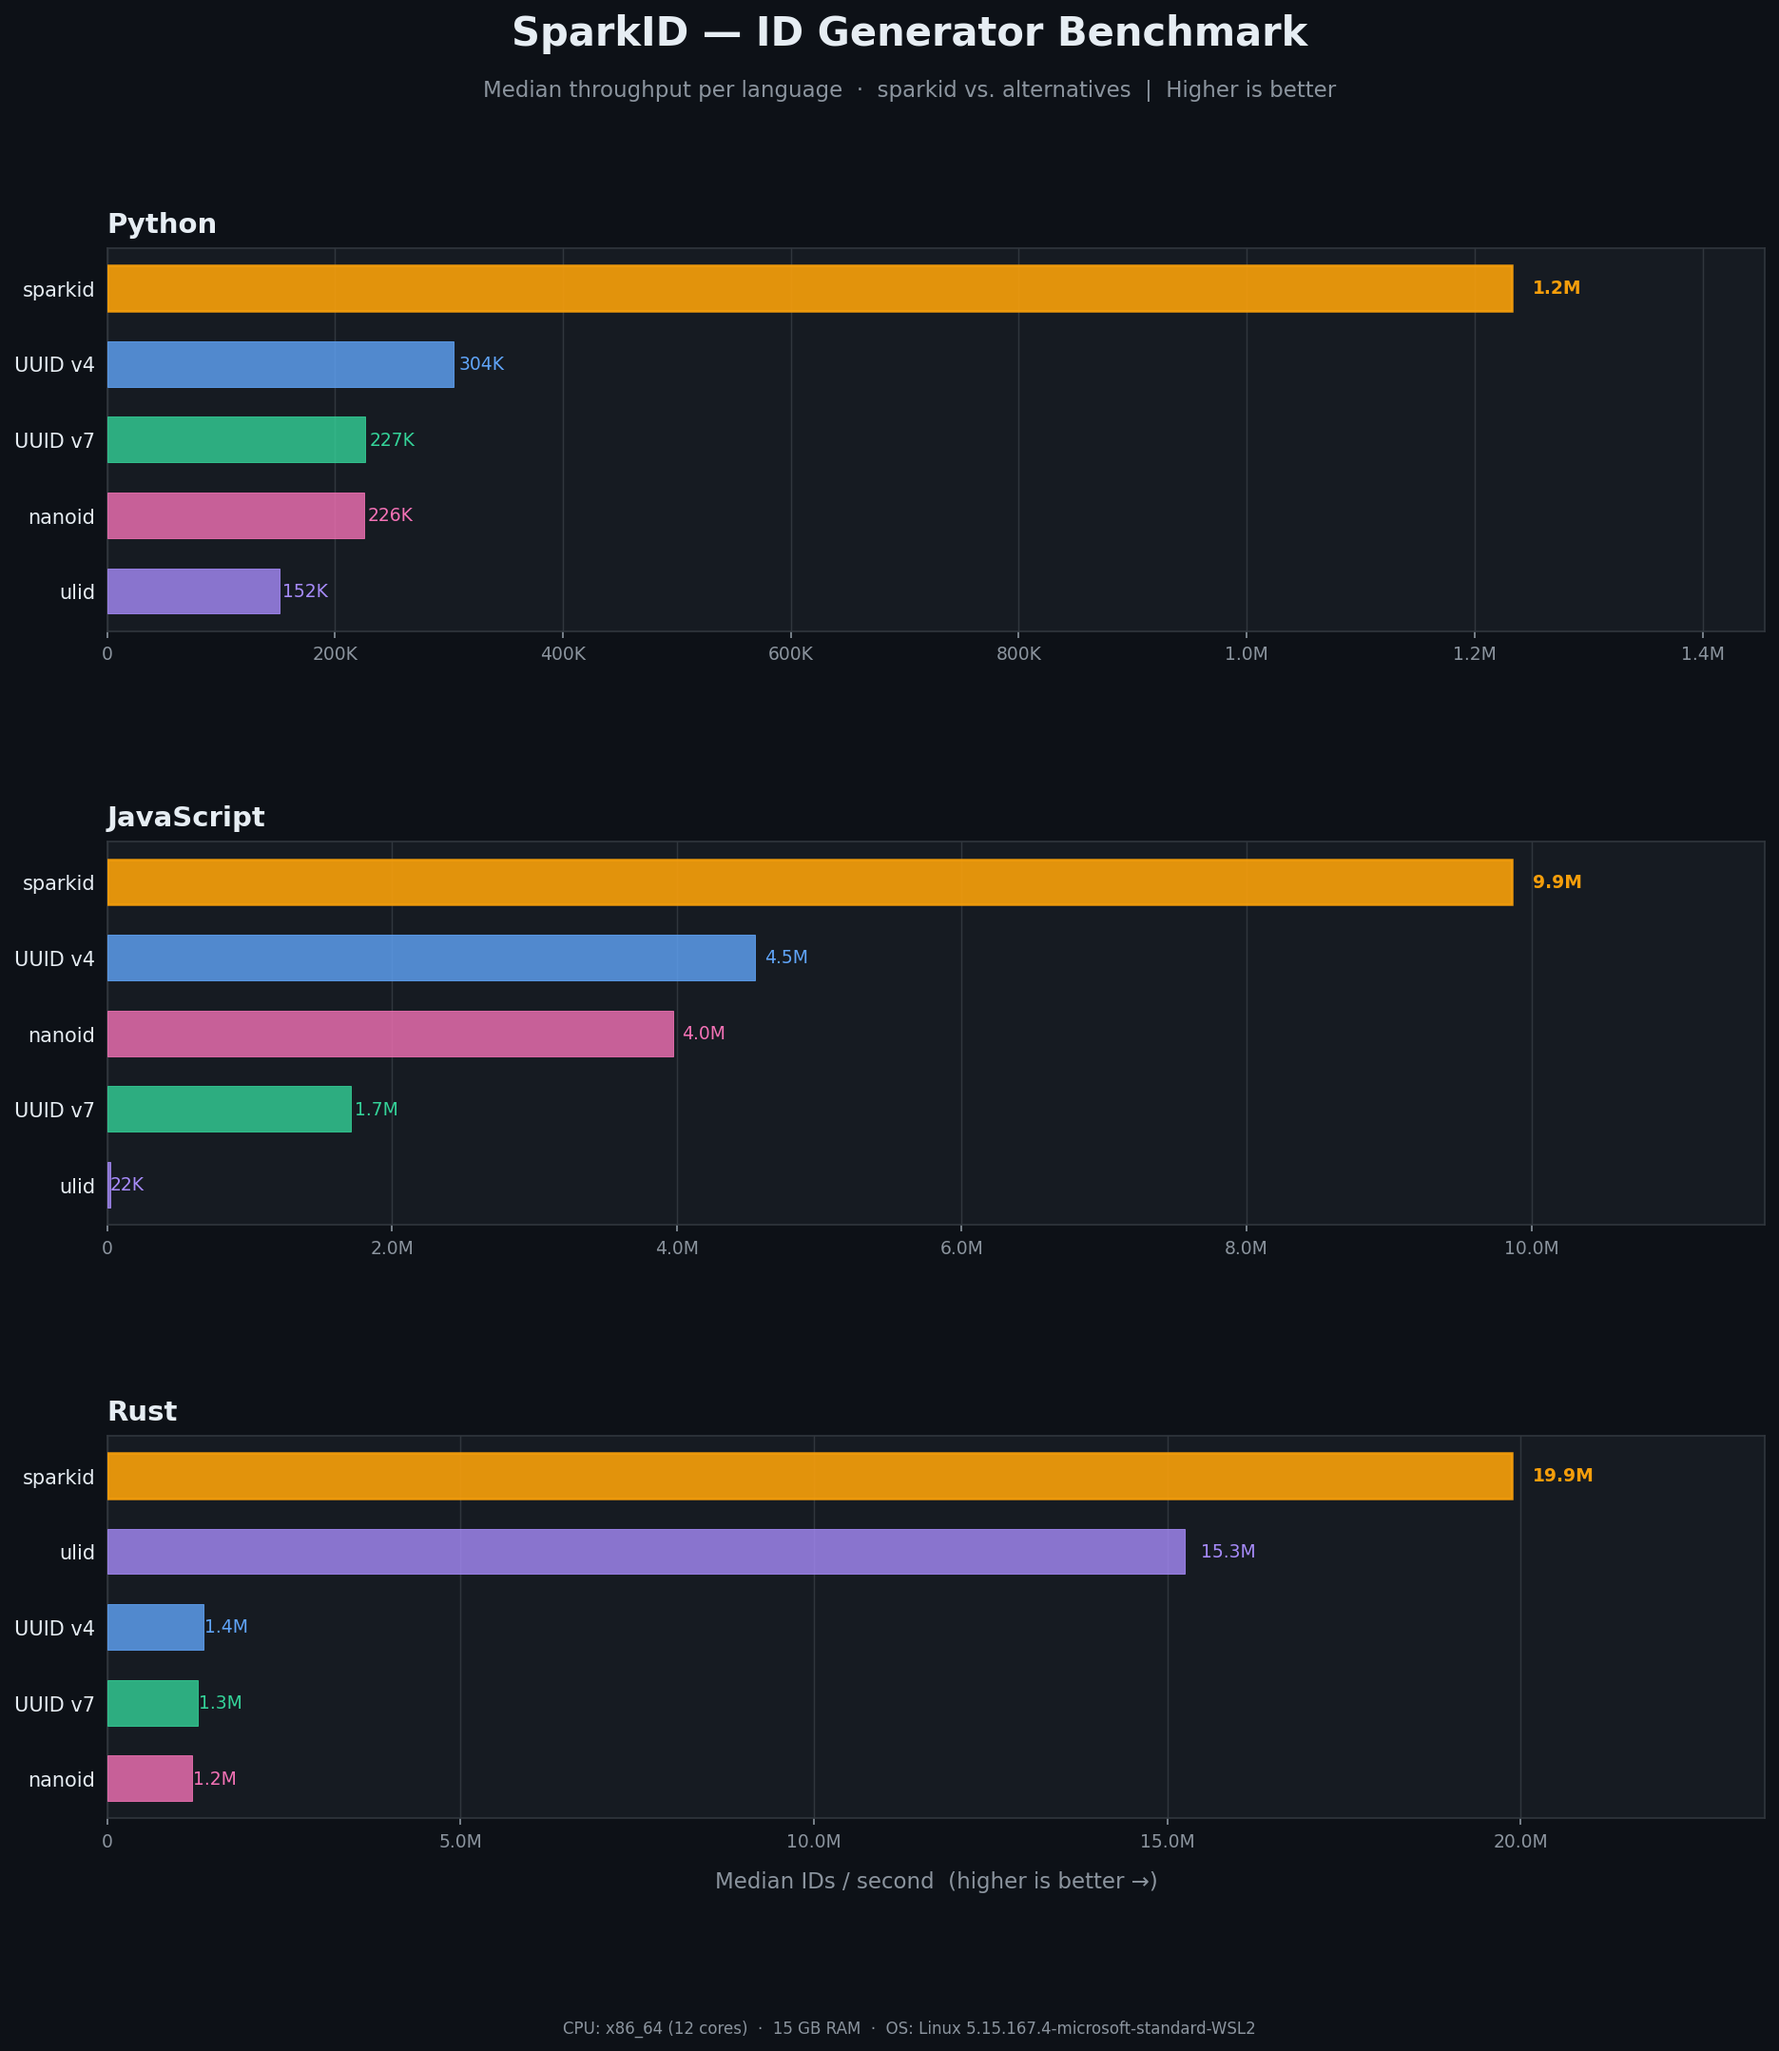
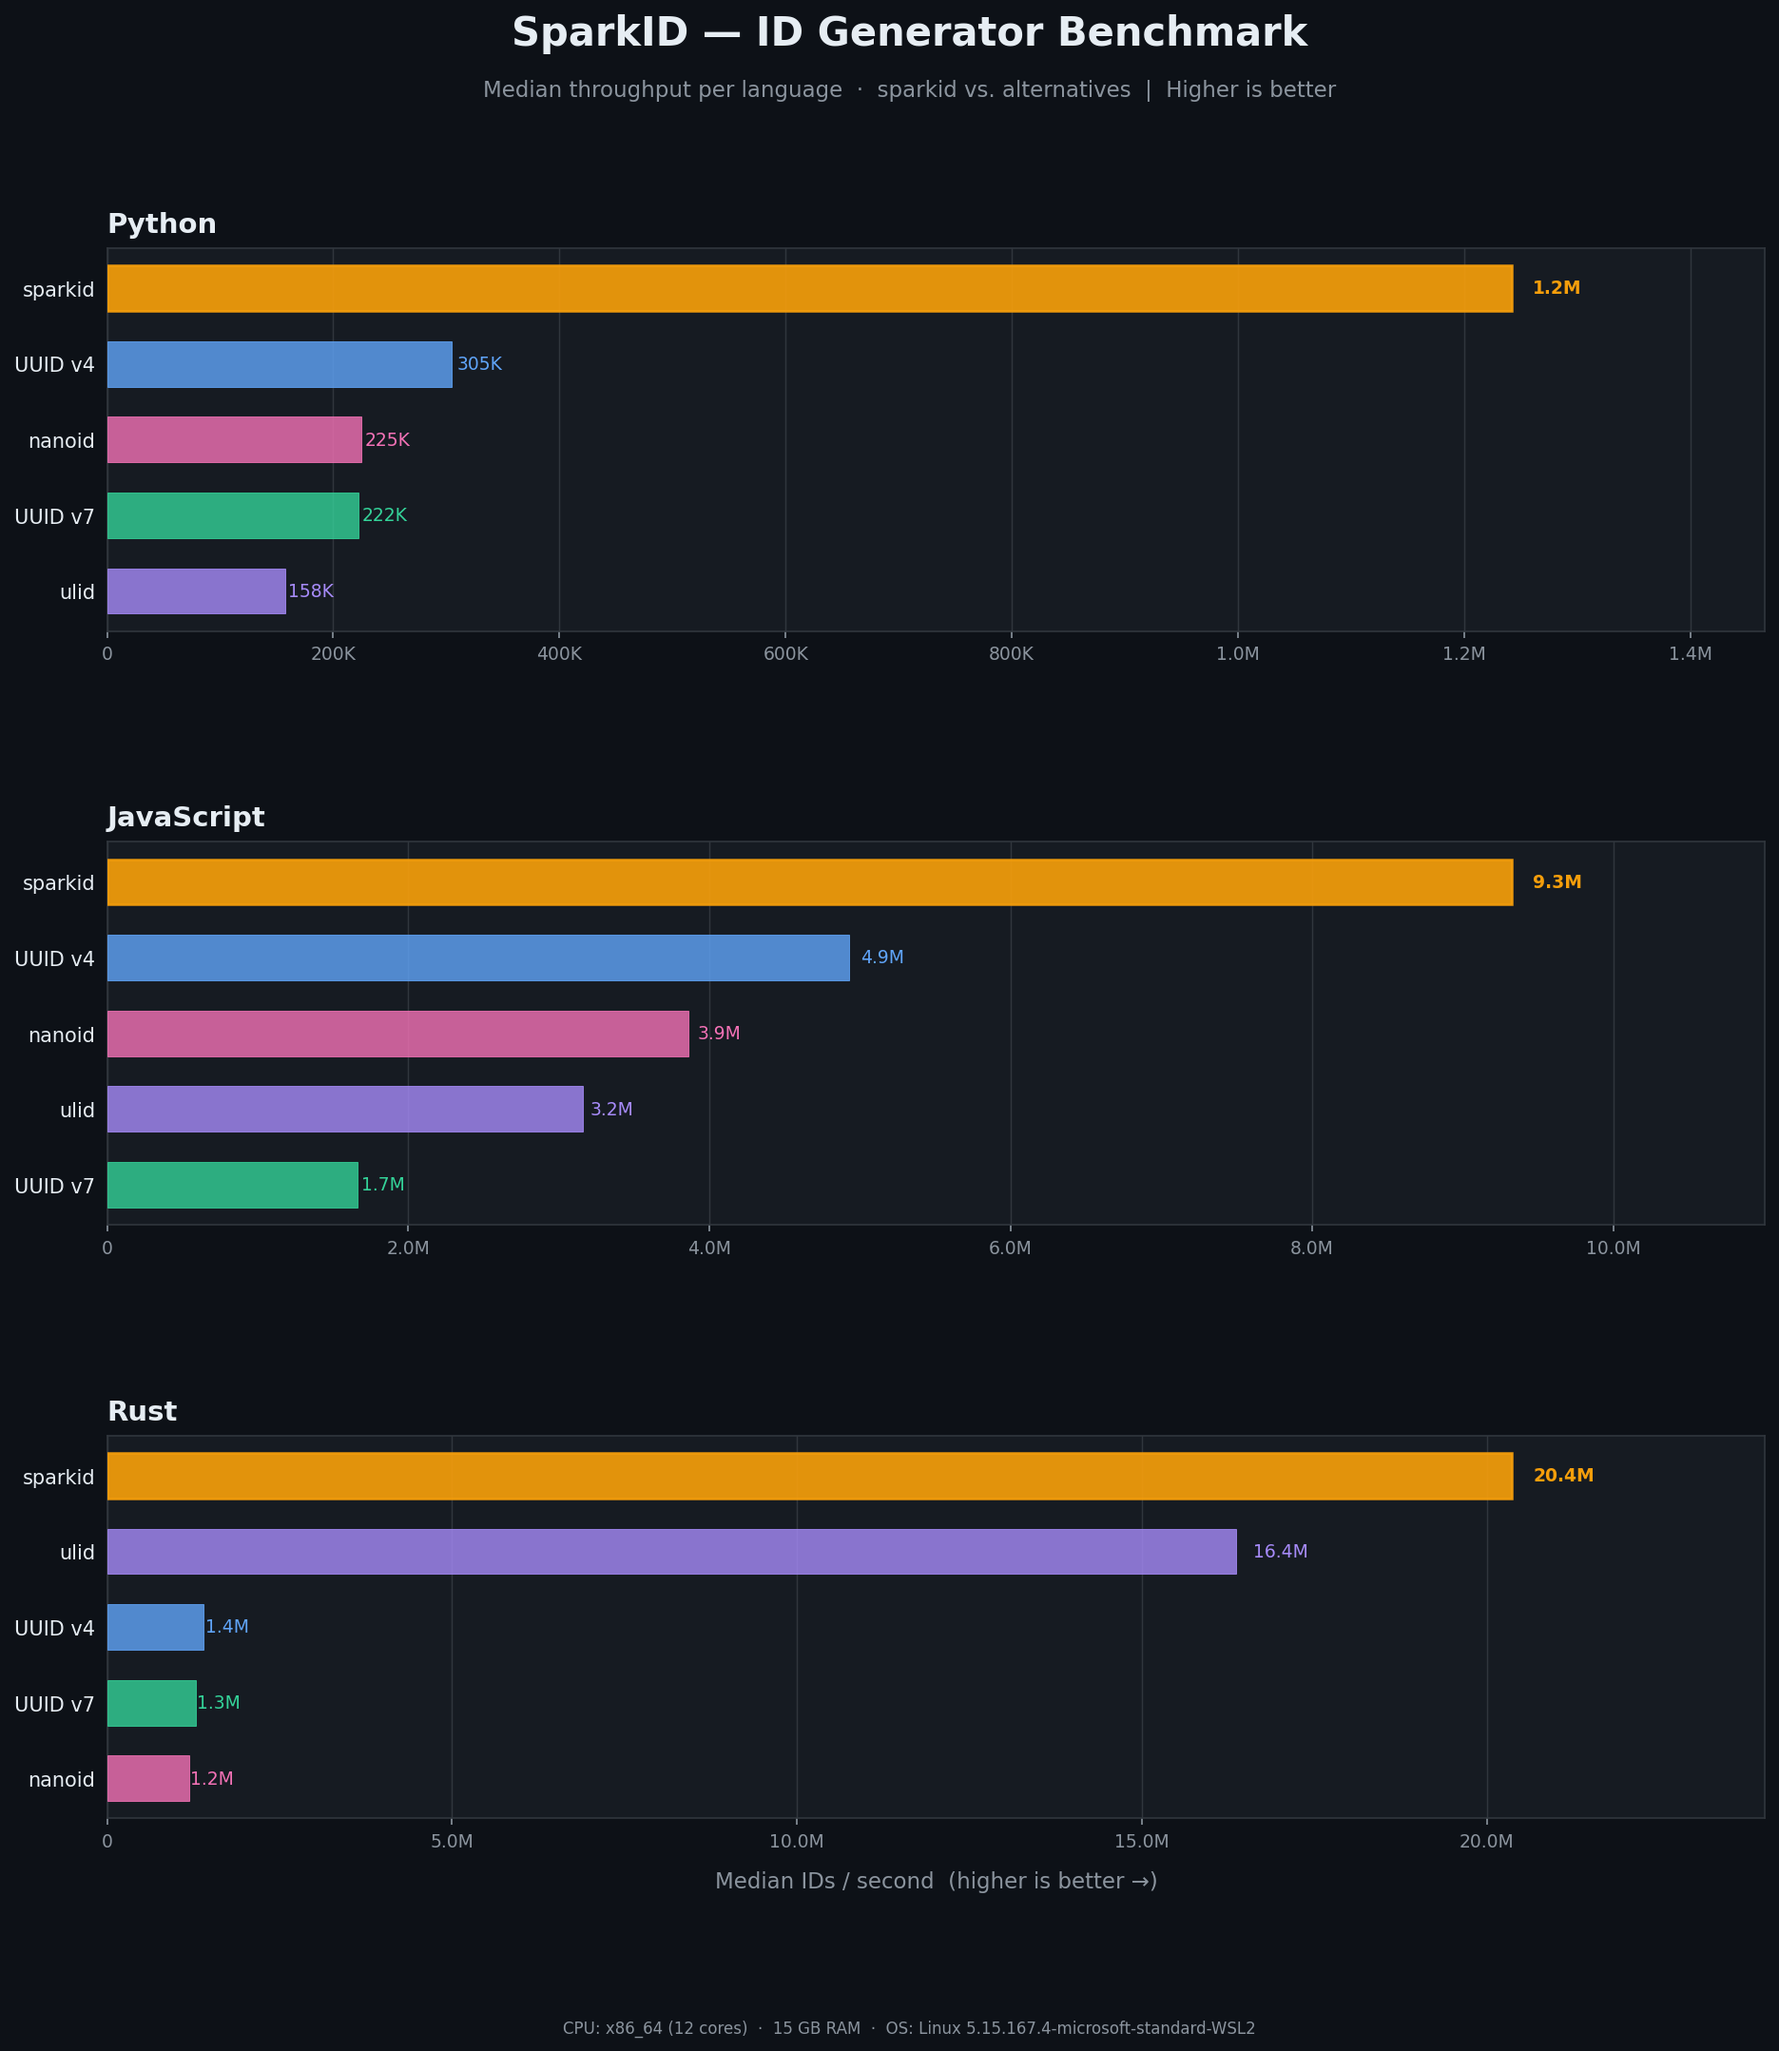
improve benchmark

diff --git a/js/bench/benchmark.ts b/js/bench/benchmark.ts
@@ -66,7 +66,7 @@ function verify(): void {
 
 function benchCandidate(
   generate: () => string,
-  verbose = false
+  verbose = false,
 ): { medianUs: number; medianThroughput: number } {
   for (let i = 0; i < WARMUP; i++) {
     generate();
@@ -87,7 +87,7 @@ function benchCandidate(
     if (verbose) {
       const throughput = Math.round(ITERATIONS / (elapsedNs / 1_000_000_000));
       console.log(
-        `  trial ${trial + 1}: ${perCallUs.toFixed(3)} µs/call  ${throughput.toLocaleString()} ids/sec`
+        `  trial ${trial + 1}: ${perCallUs.toFixed(3)} µs/call  ${throughput.toLocaleString()} ids/sec`,
       );
     }
   }
@@ -109,7 +109,7 @@ function benchmark(): void {
 
   console.log();
   console.log(
-    `  median: ${medianUs.toFixed(3)} µs/call  ${medianThroughput.toLocaleString()} ids/sec`
+    `  median: ${medianUs.toFixed(3)} µs/call  ${medianThroughput.toLocaleString()} ids/sec`,
   );
   console.log();
 
@@ -184,12 +184,13 @@ async function runComparison(): Promise<void> {
     console.log("  ⚠ nanoid not installed, skipping (npm i nanoid)");
   }
 
-  // ulid
+  // ulid (monotonic — fair comparison since sparkid is monotonic)
   try {
-    const { ulid } = await import("ulid");
+    const { monotonicFactory } = await import("ulid");
+    const ulidMonotonic = monotonicFactory();
     candidates.push({
       name: "ulid",
-      generate: ulid,
+      generate: ulidMonotonic,
       length: "26",
       sortable: "yes",
       format: "Crockford Base32",
@@ -261,7 +262,7 @@ async function runComparison(): Promise<void> {
         r.sortable.padStart(sortW),
         r.format.padEnd(fmtW),
         r.sample,
-      ].join("  ")
+      ].join("  "),
     );
   }
 

diff --git a/rust/benches/benchmark.rs b/rust/benches/benchmark.rs
@@ -107,9 +107,10 @@ fn bench_comparison(c: &mut Criterion) {
 
     group.bench_function("nanoid", |b| b.iter(|| nanoid::nanoid!()));
 
-    // ulid — returns Copy type Ulid, then .to_string() for fair comparison
+    // ulid (monotonic — fair comparison since sparkid is monotonic)
+    let mut ulid_gen = ulid::Generator::new();
     group.bench_function("ulid", |b| {
-        b.iter(|| ulid::Ulid::new().to_string())
+        b.iter(|| ulid_gen.generate().unwrap().to_string())
     });
 
     group.finish();
